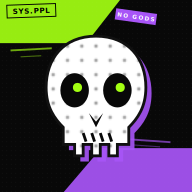
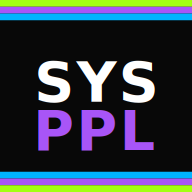
Add files via upload

diff --git a/index.html b/index.html
@@ -43,41 +43,26 @@ body{font-family:var(--mono);color:var(--text);font-size:13px;overflow-x:hidden;
 @keyframes pulse-red{0%,100%{opacity:1;color:var(--red)}50%{opacity:0.5;color:var(--red)}}
 @keyframes rest-done{0%,100%{box-shadow:0 0 0 var(--active);background:var(--card)}50%{box-shadow:0 0 24px var(--active);background:var(--active-dim)}}
 @keyframes flash-import{0%,100%{opacity:1}50%{opacity:0.6}}
-.boot{max-width:380px;margin:0 auto;display:flex;align-items:center;justify-content:center;padding:16px;min-height:100dvh;min-height:100vh;position:relative}
+.boot{max-width:380px;margin:0 auto;display:flex;flex-direction:column;justify-content:center;padding:24px 20px;min-height:100dvh;min-height:100vh;position:relative}
 .boot.gone{animation:fade-out .35s forwards}
 .boot.hidden{display:none}
-.boot-frame{position:relative;width:100%;min-height:min(560px,calc(100dvh - 64px));min-height:min(560px,calc(100vh - 64px));background:#0a0a0a;overflow:hidden}
-.b-halftone{position:absolute;inset:0;background-image:radial-gradient(circle,rgba(255,255,255,0.09) 1px,transparent 1.2px);background-size:5px 5px}
-.b-diag-p{position:absolute;top:-40px;right:-80px;width:340px;height:180px;background:var(--purple);transform:rotate(-18deg);clip-path:polygon(0 20%,100% 0,98% 82%,4% 100%,10% 60%)}
-.b-diag-pd{position:absolute;top:-40px;right:-80px;width:340px;height:180px;background-image:radial-gradient(circle,rgba(0,0,0,0.35) 1.4px,transparent 1.5px);background-size:6px 6px;transform:rotate(-18deg);clip-path:polygon(0 20%,100% 0,98% 82%,4% 100%,10% 60%);mix-blend-mode:multiply}
-.b-diag-g{position:absolute;bottom:80px;left:-60px;width:280px;height:120px;background:var(--green);transform:rotate(8deg);clip-path:polygon(4% 0,100% 12%,96% 88%,0 100%,8% 40%)}
-.b-diag-gd{position:absolute;bottom:80px;left:-60px;width:280px;height:120px;background-image:radial-gradient(circle,rgba(0,0,0,0.35) 1.4px,transparent 1.5px);background-size:6px 6px;transform:rotate(8deg);clip-path:polygon(4% 0,100% 12%,96% 88%,0 100%,8% 40%);mix-blend-mode:multiply}
-.b-scr{position:absolute;pointer-events:none}
-.b-s1{top:120px;left:20px;width:80px;height:6px;background:#fff;transform:rotate(-8deg)}
-.b-s2{top:180px;right:40px;width:40px;height:3px;background:var(--green);transform:rotate(22deg)}
-.b-s3{bottom:180px;left:60px;width:60px;height:4px;background:var(--purple);transform:rotate(-14deg)}
-.b-s4{bottom:240px;right:20px;width:100px;height:5px;background:var(--blue);transform:rotate(6deg)}
-.b-word{position:absolute;top:90px;left:50%;transform:translateX(-50%) rotate(-3deg);padding:16px 28px;background:#080808;border:3px solid #fff;box-shadow:8px 8px 0 var(--purple),8px 8px 0 3px #fff;z-index:5}
-.b-wm{font-family:var(--pop);font-size:42px;color:#fff;letter-spacing:.02em;line-height:.9;text-align:center;position:relative}
-.b-wm::before{content:'SYS.PPL';position:absolute;top:2px;left:2px;color:var(--green);z-index:-1;opacity:.9}
-.b-sub{font-family:var(--cond);font-weight:700;font-size:11px;letter-spacing:.35em;color:#000;background:var(--green);padding:3px 10px;text-align:center;margin-top:8px;transform:rotate(1deg)}
-.b-skull{position:absolute;bottom:180px;right:24px;transform:rotate(8deg);z-index:6;filter:drop-shadow(4px 4px 0 var(--purple))}
-.b-stamp{position:absolute;background:#000;color:var(--green);font-family:var(--cond);font-weight:700;font-size:10px;letter-spacing:.2em;padding:5px 10px;border:1.5px solid var(--green);transform:rotate(-12deg);top:56px;left:20px;z-index:7}
-.b-stamp2{position:absolute;background:var(--purple);color:#fff;font-family:var(--pop);font-size:11px;letter-spacing:.15em;padding:4px 10px;transform:rotate(6deg);top:60px;right:24px;z-index:7}
-.b-tape{position:absolute;background:rgba(255,255,255,0.85);width:70px;height:22px;background-image:repeating-linear-gradient(90deg,rgba(0,0,0,0.06) 0px,rgba(0,0,0,0.06) 3px,transparent 3px,transparent 6px);z-index:8}
-.b-t1{top:74px;left:30px;transform:rotate(-32deg)}
-.b-t2{top:130px;right:30px;transform:rotate(28deg)}
-.b-tornT{position:absolute;top:280px;left:0;right:0;height:20px;background:var(--green);z-index:5;clip-path:polygon(0 0,3% 40%,8% 10%,14% 60%,20% 20%,26% 50%,32% 15%,40% 55%,46% 25%,54% 60%,60% 20%,68% 50%,75% 15%,82% 55%,88% 25%,94% 60%,100% 30%,100% 100%,0 100%)}
-.b-tornB{position:absolute;bottom:130px;left:0;right:0;height:20px;background:var(--purple);z-index:5;clip-path:polygon(0 0,100% 0,100% 70%,94% 40%,88% 75%,82% 45%,75% 85%,68% 50%,60% 80%,54% 40%,46% 75%,40% 45%,32% 85%,26% 50%,20% 80%,14% 40%,8% 90%,3% 60%,0 100%)}
-.b-info{position:absolute;bottom:150px;left:20px;right:20px;background:#000;border:1.5px solid var(--green);border-left:4px solid var(--blue);padding:14px 16px;z-index:9;font-family:var(--mono)}
-.b-il{font-size:11px;color:#666;letter-spacing:.05em;margin-bottom:3px}
+.boot-frame{position:relative;width:100%;display:flex;flex-direction:column;background:#080808}
+.b-top-bar{height:6px;background:linear-gradient(90deg,var(--green) 0%,var(--purple) 50%,var(--blue) 100%);margin-bottom:32px}
+.b-bot-bar{height:6px;background:linear-gradient(90deg,var(--blue) 0%,var(--purple) 50%,var(--green) 100%);margin-top:0}
+.b-wordmark{padding:0 4px;margin-bottom:28px}
+.b-wm{font-family:var(--pop);font-size:48px;color:#fff;letter-spacing:.04em;line-height:1}
+.b-sub{font-family:var(--mono);font-size:11px;letter-spacing:.25em;color:var(--green);margin-top:6px}
+.b-divider{height:1px;background:linear-gradient(90deg,var(--green),var(--purple),var(--blue));opacity:.2;margin:20px 0}
+.b-divider-rev{background:linear-gradient(90deg,var(--blue),var(--purple),var(--green))}
+.b-info{padding:0 4px;font-family:var(--mono)}
+.b-il{font-size:11px;color:var(--muted);letter-spacing:.05em;margin-bottom:4px}
 .b-il.g{color:var(--green)}
 .b-cur{display:inline-block;width:8px;height:11px;background:var(--green);animation:blink .7s infinite;vertical-align:middle;margin-left:3px}
-.b-meta{font-size:9px;color:var(--blue);letter-spacing:.14em;margin:10px 0 4px;padding-top:8px;border-top:1px dashed rgba(0,180,255,0.35)}
-.b-last{font-size:13px;color:#fff}
-.b-last span{color:var(--purple);font-weight:700;font-family:var(--cond);letter-spacing:.08em}
-.b-enter{position:absolute;bottom:40px;left:20px;right:20px;padding:14px;background:var(--green);color:#000;border:none;font-family:var(--pop);font-size:16px;letter-spacing:.2em;cursor:pointer;z-index:10;box-shadow:5px 5px 0 var(--green);transition:transform .1s}
-.b-enter:active{transform:translate(3px,3px);box-shadow:2px 2px 0 var(--green)}
+.b-meta{font-size:9px;color:var(--blue);letter-spacing:.14em;margin:14px 0 5px;padding-top:12px;border-top:1px dashed rgba(0,180,255,0.2)}
+.b-last{font-size:14px;color:#fff}
+.b-last span{color:var(--purple);font-family:var(--cond);font-weight:700;letter-spacing:.08em}
+.b-enter{width:100%;padding:15px;background:var(--purple);color:#fff;border:none;font-family:var(--pop);font-size:16px;letter-spacing:.2em;cursor:pointer;margin-top:28px;transition:opacity .15s}
+.b-enter:active{opacity:0.8}
 .b-enter::before{content:'▶ '}
 .sys-header{display:flex;justify-content:space-between;align-items:center;padding:12px 14px 4px;position:relative;z-index:2}
 .sys-brand{font-family:var(--pop);font-size:16px;color:#fff;letter-spacing:.06em;position:relative}
@@ -294,28 +279,12 @@ input[type=number]::-webkit-inner-spin-button{-webkit-appearance:none}
 
 <div class="boot" id="boot">
   <div class="boot-frame">
-    <div class="b-halftone"></div>
-    <div class="b-diag-p"></div><div class="b-diag-pd"></div>
-    <div class="b-diag-g"></div><div class="b-diag-gd"></div>
-    <div class="b-scr b-s1"></div><div class="b-scr b-s2"></div><div class="b-scr b-s3"></div><div class="b-scr b-s4"></div>
-    <div class="b-stamp">// PROTOCOL_v2.4</div>
-    <div class="b-stamp2">NO GODS</div>
-    <div class="b-tape b-t1"></div><div class="b-tape b-t2"></div>
-    <div class="b-word"><div class="b-wm">SYS.PPL</div><div class="b-sub">WORKOUT / PROTOCOL</div></div>
-    <div class="b-skull">
-      <svg width="90" height="100" viewBox="0 0 90 100">
-        <defs><pattern id="ht" x="0" y="0" width="4" height="4" patternUnits="userSpaceOnUse"><circle cx="2" cy="2" r="1" fill="#000"/></pattern></defs>
-        <path d="M45 8 C22 8 10 24 10 44 C10 58 16 66 22 72 L22 84 L30 84 L30 92 L36 92 L36 84 L42 84 L42 92 L48 92 L48 84 L54 84 L54 92 L60 92 L60 84 L68 84 L68 72 C74 66 80 58 80 44 C80 24 68 8 45 8 Z" fill="#fff" stroke="#000" stroke-width="2"/>
-        <path d="M45 8 C22 8 10 24 10 44 C10 58 16 66 22 72 L22 84 L30 84 L30 92 L36 92 L36 84 L42 84 L42 92 L48 92 L48 84 L54 84 L54 92 L60 92 L60 84 L68 84 L68 72 C74 66 80 58 80 44 C80 24 68 8 45 8 Z" fill="url(#ht)" opacity="0.5"/>
-        <ellipse cx="30" cy="46" rx="9" ry="11" fill="#000"/>
-        <ellipse cx="60" cy="46" rx="9" ry="11" fill="#000"/>
-        <circle cx="32" cy="44" r="2.5" fill="#A3FF12"/>
-        <circle cx="62" cy="44" r="2.5" fill="#A3FF12"/>
-        <path d="M40 62 L45 68 L50 62 L48 66 L45 72 L42 66 Z" fill="#000"/>
-        <path d="M36 76 L38 82 M42 76 L44 82 M48 76 L50 82 M54 76 L56 82" stroke="#000" stroke-width="1.5"/>
-      </svg>
+    <div class="b-top-bar"></div>
+    <div class="b-wordmark">
+      <div class="b-wm">SYS.PPL</div>
+      <div class="b-sub">WORKOUT / PROTOCOL</div>
     </div>
-    <div class="b-tornT"></div><div class="b-tornB"></div>
+    <div class="b-divider"></div>
     <div class="b-info">
       <div class="b-il g">> sys.ready<span class="b-cur"></span></div>
       <div class="b-il">> exercise_db loaded</div>
@@ -323,8 +292,10 @@ input[type=number]::-webkit-inner-spin-button{-webkit-appearance:none}
       <div class="b-meta">// LAST_SESSION</div>
       <div class="b-last" id="boot-last">no sessions yet</div>
     </div>
+    <div class="b-divider b-divider-rev"></div>
     <button class="b-enter" onclick="enterApp()">ENTER</button>
   </div>
+  <div class="b-bot-bar"></div>
 </div>
 
 <div class="app" id="main-app" data-day="Push" style="display:none">

diff --git a/sw.js b/sw.js
@@ -1,6 +1,6 @@
 // SYS.PPL Service Worker
 // Bump this version whenever you deploy new HTML/CSS/JS so clients pick it up
-const CACHE_NAME = 'sys-ppl-v3';
+const CACHE_NAME = 'sys-ppl-v5';
 
 // App shell — everything needed for first paint offline
 const SHELL_ASSETS = [
